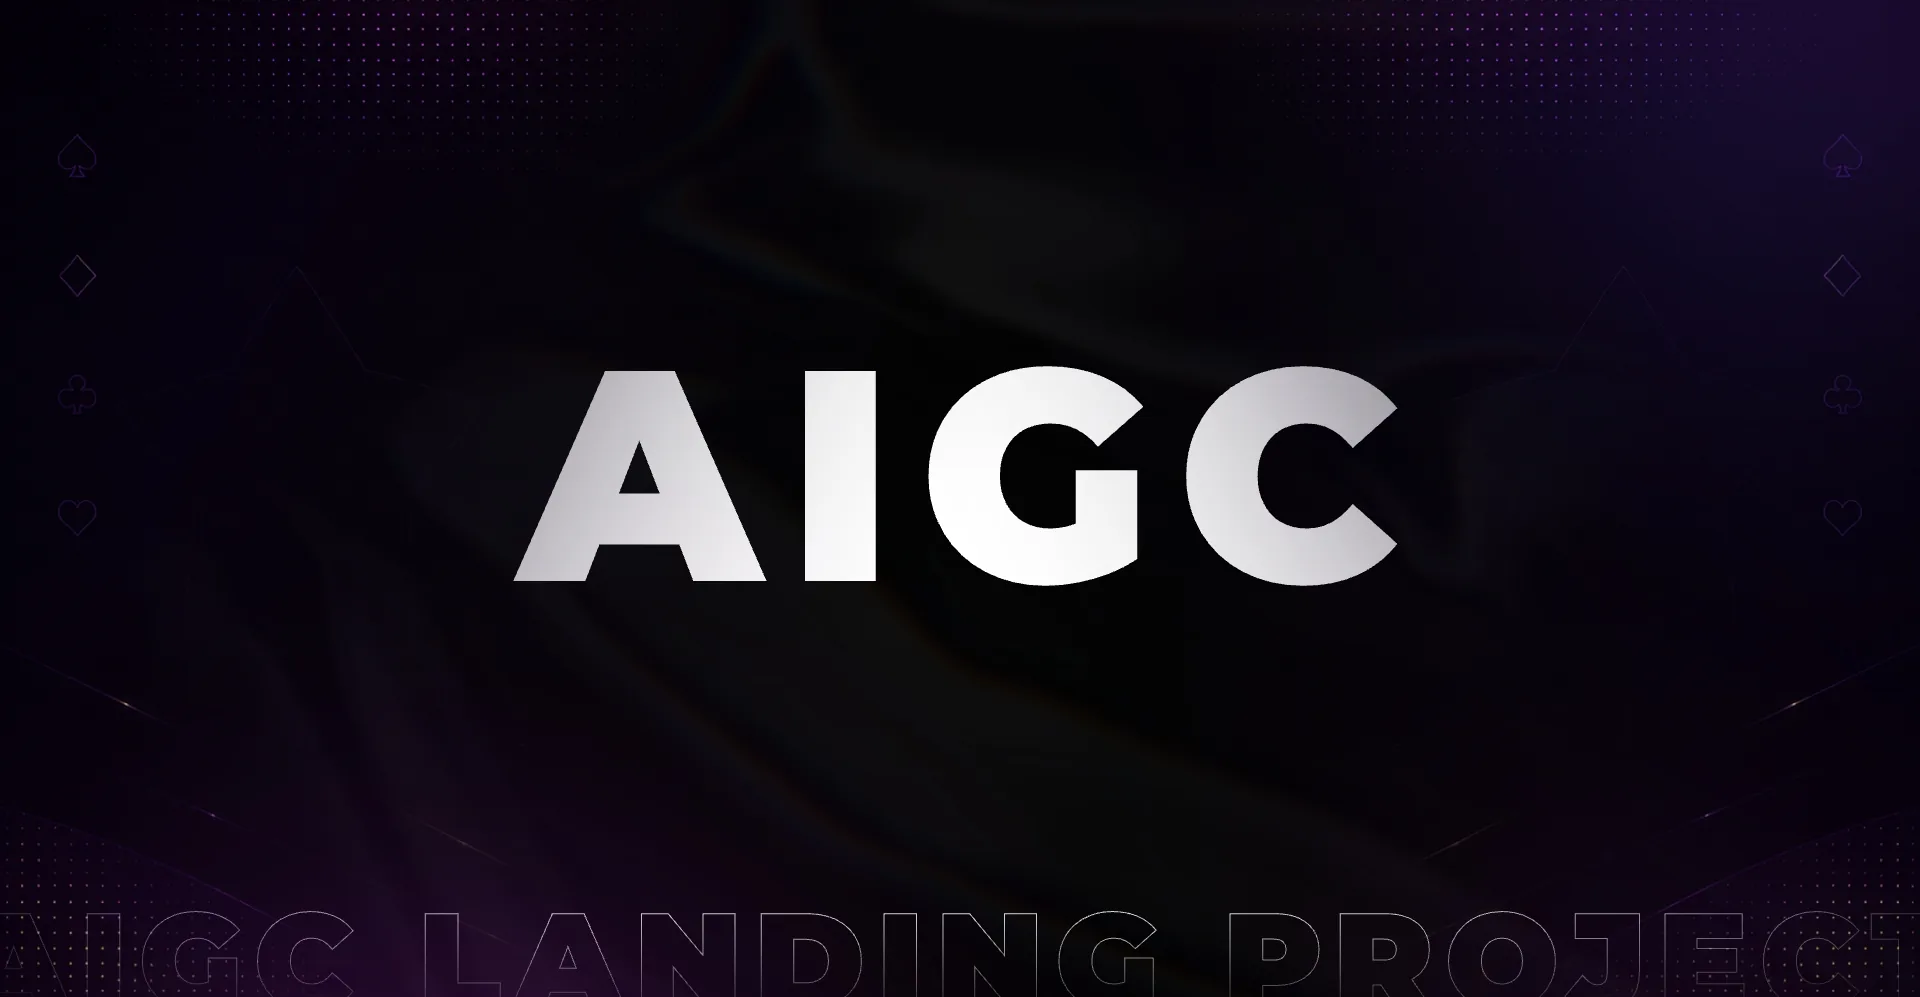
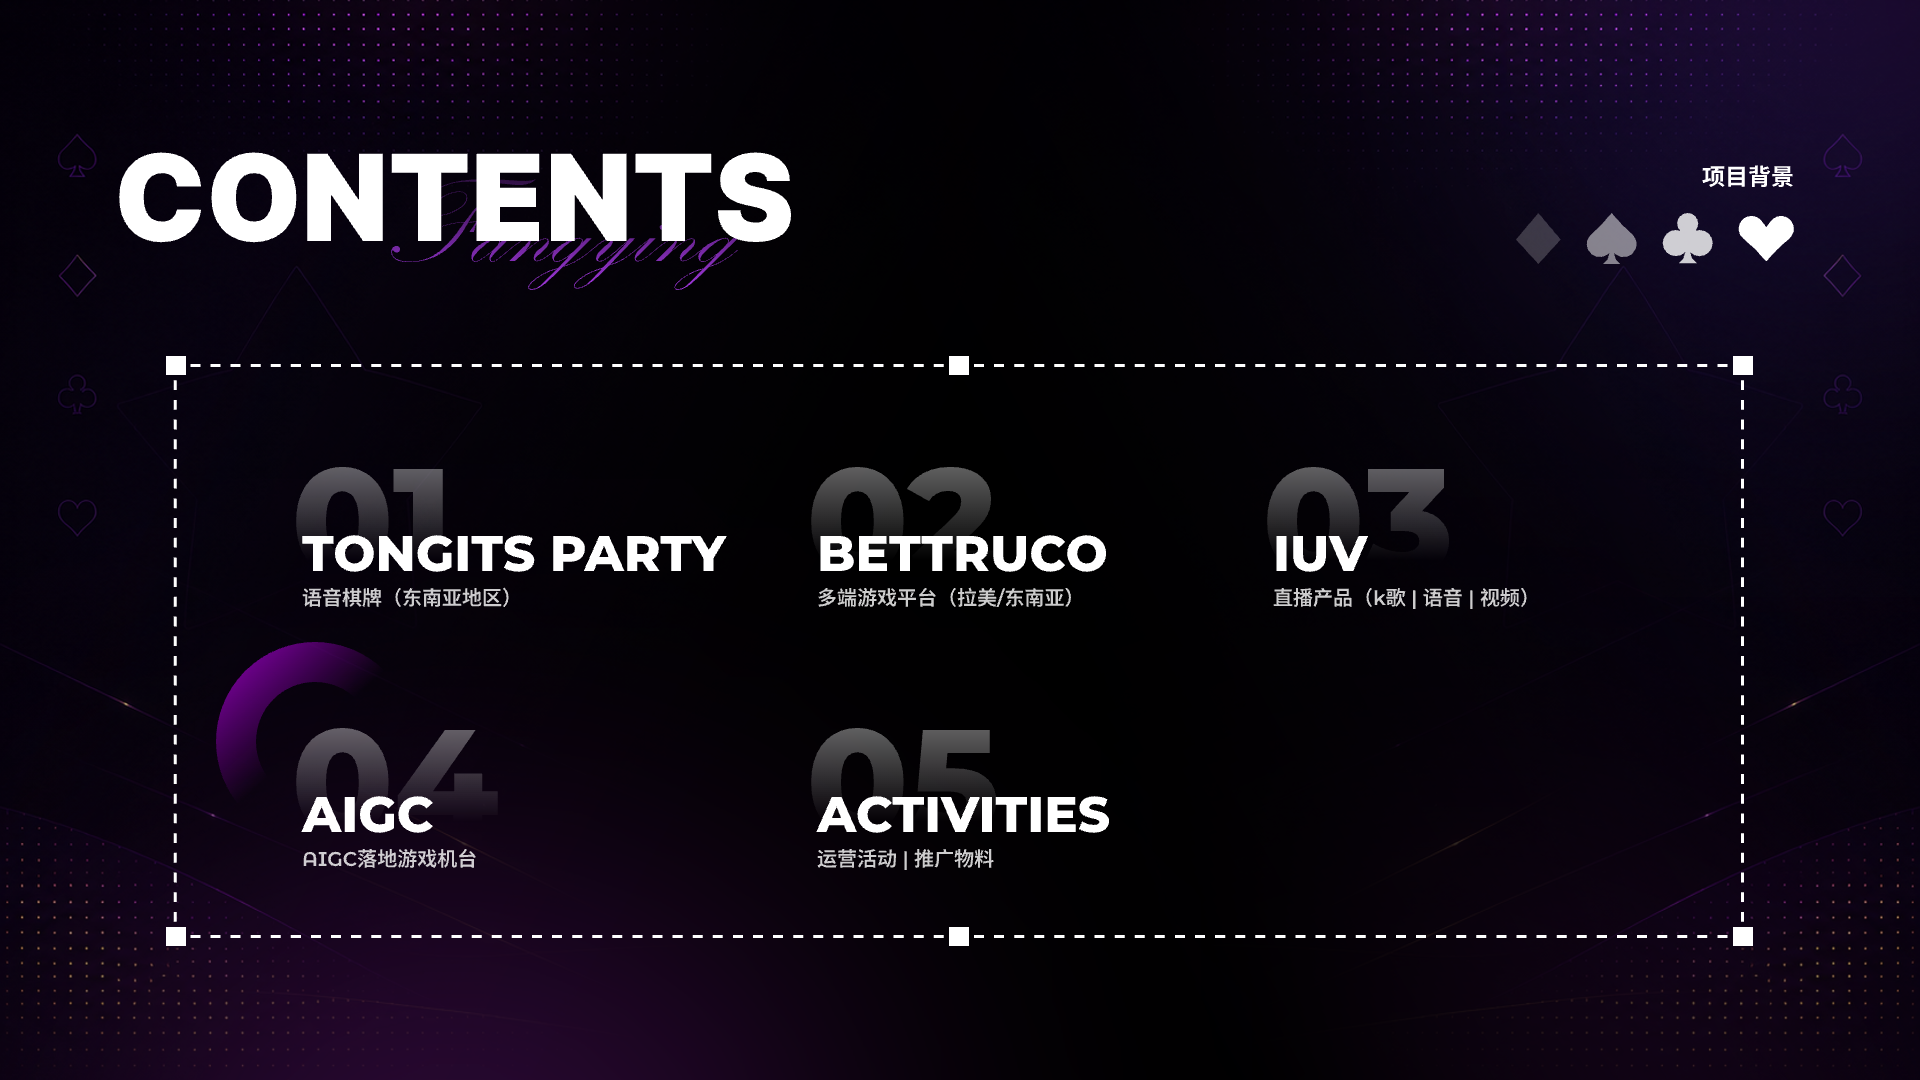
Add files via upload

diff --git a/index.html b/index.html
@@ -17,6 +17,7 @@
     <section class="pages">
       <img src="01.webp" alt="作品集封面" fetchpriority="high">
       <img src="02.webp" alt="个人介绍" fetchpriority="high">
+      <img src="catalog-1.webp" alt="作品集目录">
     </section>
     <header id="tongits"><span>01 / CASE STUDY</span><h2>Cash Tongits</h2></header>
     <section class="pages">
@@ -29,11 +30,11 @@
     </section>
     <header id="bet"><span>02 / CASE STUDY</span><h2>Bet Truco</h2></header>
     <section class="pages">
-      <img src="19.webp"><img src="20.webp"><img src="21.webp">
+      <img src="catalog-2.webp"><img src="19.webp"><img src="20.webp"><img src="21.webp">
     </section>
     <header id="iuv"><span>03 / CASE STUDY</span><h2>IUV</h2></header>
     <section class="pages">
-      <img src="22.webp"><img src="23.webp"><img src="24.webp">
+      <img src="catalog-3.webp"><img src="22.webp"><img src="23.webp"><img src="24.webp">
       <img src="25.webp"><img src="26.webp"><img src="27.webp">
       <img src="28.webp"><img src="29.webp"><img src="30.webp">
       <img src="31.webp"><img src="32.webp"><img src="33.webp">

diff --git a/sw.js b/sw.js
@@ -1,4 +1,4 @@
-const CACHE_NAME = "fangying-portfolio-v5";
+const CACHE_NAME = "fangying-portfolio-v6";
 const CORE_FILES = ["./", "index.html", "styles.css", "loading.css", "loading-v3.js"];
 const inFlight = new Map();
 